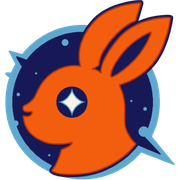
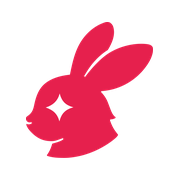
サイトを新ロゴとブランドカラー（#E6204D / #040000）に切り替え
名刺と同じピンクのうさぎロゴと配色にそろえる。

- ヘッダー：白地＋横長ロゴ。トップはキービジュアルに重ね、上から白のシェード
- 紺→黒、オレンジ→ピンク。水色は廃止。白地の小さい文字リンクは #C41A40
- favicon・apple-touch-icon・OG画像を新ロゴで作り直し、旧ロゴ画像を削除
- assets/img/google/ に Google Workspace 用画像（プロフィール・管理コンソールロゴ・Gmail署名）を追加

diff --git a/assets/css/style.css b/assets/css/style.css
@@ -1,15 +1,16 @@
 /* Radiant Bunny Studio — brand tokens taken from the logo */
 :root {
-  --night: #18195a;      /* logo navy */
-  --night-deep: #10114a;
-  --bunny: #f15e11;      /* logo orange */
-  --bunny-dark: #c8480a;
-  --sky: #5ea9d3;        /* logo ring blue */
-  --moon: #f8f2e4;       /* logo cream */
+  --night: #040000;      /* logo black */
+  --night-deep: #040000;
+  --bunny: #e6204d;      /* logo pink */
+  --bunny-dark: #c41a40; /* pink for small text on white (AA contrast) */
+  --mist: #f6f2f2;       /* soft panel on white */
+  --on-dark: #ffffff;    /* text on black */
+  --on-dark-soft: #cfc9c9;
   --paper: #ffffff;
-  --ink: #18195a;
-  --ink-soft: #4a4b7c;
-  --line: #dcdcea;
+  --ink: #040000;
+  --ink-soft: #5a5353;
+  --line: #e8e3e3;
 
   --font-latin: "Montserrat", system-ui, sans-serif;
   --font-jp: "Noto Sans JP", "Hiragino Sans", "Hiragino Kaku Gothic ProN", "Yu Gothic", "Meiryo", sans-serif;
@@ -37,48 +38,48 @@ img { max-width: 100%; height: auto; display: block; }
 a { color: var(--bunny-dark); text-underline-offset: 3px; }
 a:hover { color: var(--bunny); }
 
-:focus-visible { outline: 3px solid var(--sky); outline-offset: 3px; border-radius: 4px; }
+:focus-visible { outline: 3px solid var(--bunny); outline-offset: 3px; border-radius: 4px; }
 
 .wrap { width: 100%; max-width: var(--wrap); margin: 0 auto; padding: 0 var(--gutter); }
 
 .skip {
   position: absolute; left: -9999px; top: 8px;
-  background: var(--moon); color: var(--night); padding: 8px 14px; z-index: 10;
+  background: var(--paper); color: var(--ink); padding: 8px 14px; z-index: 10;
 }
 .skip:focus { left: 8px; }
 
 /* ---------- Header ---------- */
-.site-header { background: var(--night); color: var(--moon); }
+/* White bar like the business card, so the full-colour logo sits on white */
+.site-header { background: var(--paper); color: var(--ink); border-bottom: 1px solid var(--line); }
 .site-header .wrap {
   display: flex; align-items: center; justify-content: space-between;
   gap: 24px; min-height: 72px;
 }
-.brand {
-  display: flex; align-items: center; gap: 12px;
-  text-decoration: none; color: var(--moon);
-  font-family: var(--font-latin); line-height: 1.05;
-}
+/* Top page: the header sits on the key art, with a white shade fading down from the top */
 .site-header.is-overlay {
   position: absolute; top: 0; left: 0; right: 0; z-index: 5;
-  background: linear-gradient(to bottom, rgba(16, 17, 74, .55), transparent);
+  background: none; border-bottom: 0; isolation: isolate;
 }
-.brand img { width: 42px; height: 42px; }
-.brand-name { display: flex; flex-direction: column; }
-.brand-name b { color: var(--bunny); font-weight: 800; font-size: 17px; letter-spacing: -0.01em; }
-.brand-name span { color: var(--moon); font-weight: 400; font-size: 15px; }
-.brand:hover { color: var(--moon); }
+.site-header.is-overlay::before {
+  content: ""; position: absolute; inset: 0 0 -72px 0; z-index: -1; pointer-events: none;
+  background: linear-gradient(to bottom,
+    rgba(255, 255, 255, .78) 0%, rgba(255, 255, 255, .6) 40%,
+    rgba(255, 255, 255, .25) 70%, rgba(255, 255, 255, 0) 100%);
+}
+.brand { display: flex; align-items: center; text-decoration: none; }
+.brand img { width: auto; height: 36px; }
 
 .site-nav ul { list-style: none; margin: 0; padding: 0; display: flex; align-items: center; gap: clamp(14px, 3vw, 32px); }
 .site-nav .nav-x { display: flex; align-items: center; padding: 6px 0; }
 .site-nav .nav-x:hover { color: var(--bunny); border-bottom-color: transparent; }
 .site-nav a {
-  color: var(--moon); text-decoration: none; font-size: 14px; font-weight: 500; white-space: nowrap;
+  color: var(--ink); text-decoration: none; font-size: 14px; font-weight: 500; white-space: nowrap;
   padding: 6px 0; border-bottom: 2px solid transparent;
 }
-.site-nav a:hover, .site-nav a[aria-current="page"] { color: var(--moon); border-bottom-color: var(--bunny); }
+.site-nav a:hover, .site-nav a[aria-current="page"] { color: var(--ink); border-bottom-color: var(--bunny); }
 
 /* ---------- Hero ---------- */
-.hero { background: var(--night); color: var(--moon); }
+.hero { background: var(--night); color: var(--on-dark); }
 
 /* Key art fills the width. The eyes sit at the image centre, so the copy
    centred on top of it always lands on the eyes (as on the Vstar wiki). */
@@ -99,13 +100,13 @@ a:hover { color: var(--bunny); }
   display: flex; flex-direction: column; align-items: center;
   text-align: center;
 }
-/* Each line is a solid navy bar laid across the eyes */
+/* Each line is a solid pink bar laid across the eyes */
 .hero-copy .bar {
   display: block; width: fit-content; margin: 0 auto;
   background: var(--bunny); color: var(--night); padding: 2px clamp(10px, 0.45em, 22px);
 }
 .hero-copy .bar > span { display: inline-block; }
-.hero-copy h1 .bar { color: var(--moon); }
+.hero-copy h1 .bar { color: var(--on-dark); }
 /* Overlap by 1px so no hairline of the art shows between bars on fractional pixel edges */
 .hero-copy h1 .bar + .bar, .hero-copy .hero-en { margin-top: -1px; }
 .hero-copy h1 {
@@ -113,7 +114,7 @@ a:hover { color: var(--bunny); }
   font-family: "Noto Sans JP", "Hiragino Sans", "Yu Gothic", sans-serif;
   /* no cap: grows with the art so the eyes stay covered; a little smaller on very narrow phones */
   font-weight: 800; font-size: max(min(24px, 6.4vw), 3.4vw);
-  line-height: 1.28; letter-spacing: 0.01em; color: var(--moon);
+  line-height: 1.28; letter-spacing: 0.01em; color: var(--on-dark);
 }
 /* Stagger the two lines off the centre axis: first to the left, second to the right */
 .hero-copy h1 .bar:nth-child(1) { transform: translateX(-0.9em); }
@@ -125,7 +126,7 @@ a:hover { color: var(--bunny); }
 
 .hero-lead {
   margin: 0; padding: 8px 0 clamp(48px, 7vw, 88px);
-  max-width: 40em; color: var(--sky); font-size: 15px;
+  max-width: 40em; color: var(--on-dark-soft); font-size: 15px;
 }
 
 @media (prefers-reduced-motion: no-preference) {
@@ -156,12 +157,12 @@ a:hover { color: var(--bunny); }
 }
 .statement + p { max-width: 38em; color: var(--ink-soft); margin-top: 24px; }
 
-/* What we make: three columns divided by thin sky lines, no cards */
+/* What we make: three columns divided by thin pink lines, no cards */
 .domains {
   list-style: none; margin: 0; padding: 0;
   display: grid; grid-template-columns: repeat(3, 1fr);
 }
-.domains li { padding: 8px 28px 8px 28px; border-left: 2px solid var(--sky); }
+.domains li { padding: 8px 28px 8px 28px; border-left: 2px solid var(--bunny); }
 .domains li:first-child { padding-left: 24px; }
 .domains h3 { margin: 0 0 4px; font-size: 18px; font-weight: 700; line-height: 1.5; }
 .domains .en { margin: 0 0 12px; font-family: var(--font-latin); font-size: 13px; font-weight: 600; color: var(--bunny-dark); }
@@ -198,13 +199,13 @@ a:hover { color: var(--bunny); }
 .sns-list a:hover, .sns-list a:hover .sns-handle { color: var(--bunny); }
 
 /* Contact band */
-.contact-band { background: var(--night); color: var(--moon); }
+.contact-band { background: var(--night); color: var(--on-dark); }
 .contact-band .wrap {
   display: flex; align-items: center; justify-content: space-between; gap: 32px; flex-wrap: wrap;
   padding-top: clamp(48px, 7vw, 80px); padding-bottom: clamp(48px, 7vw, 80px);
 }
 .contact-band h2 { margin: 0 0 8px; font-size: clamp(22px, 2.4vw, 28px); font-weight: 800; }
-.contact-band p { margin: 0; color: #d9d9ee; max-width: 32em; }
+.contact-band p { margin: 0; color: var(--on-dark-soft); max-width: 32em; }
 
 .button {
   display: inline-block; text-decoration: none;
@@ -216,9 +217,9 @@ a:hover { color: var(--bunny); }
 .button:hover { background: var(--bunny-dark); color: #fff; }
 
 /* ---------- Document pages (privacy / support) ---------- */
-.page-head { background: var(--night); color: var(--moon); padding: clamp(40px, 6vw, 72px) 0; }
+.page-head { background: var(--night); color: var(--on-dark); padding: clamp(40px, 6vw, 72px) 0; }
 .page-head h1 { margin: 0; font-size: clamp(26px, 3.4vw, 40px); font-weight: 800; line-height: 1.35; }
-.page-head p { margin: 8px 0 0; color: var(--sky); font-family: var(--font-latin); font-weight: 600; }
+.page-head p { margin: 8px 0 0; color: var(--bunny); font-family: var(--font-latin); font-weight: 600; }
 
 .doc { padding: clamp(48px, 7vw, 88px) 0; }
 .doc .wrap > * { max-width: 44em; }
@@ -233,7 +234,7 @@ a:hover { color: var(--bunny); }
 .doc .meta { margin-top: 48px; color: var(--ink-soft); font-size: 14px; }
 .doc .contact-box {
   margin: 20px 0; padding: 20px 24px;
-  background: var(--moon); border-radius: 12px;
+  background: var(--mist); border-radius: 12px;
 }
 .doc .contact-box p { margin: 0; }
 
@@ -251,14 +252,14 @@ a:hover { color: var(--bunny); }
 .job-howto { padding-top: 64px; }
 
 /* ---------- Footer ---------- */
-.site-footer { background: var(--night-deep); color: #b9b9d8; font-size: 13px; }
+.site-footer { background: var(--night-deep); color: #a8a2a2; font-size: 13px; border-top: 1px solid #2a2424; }
 .site-footer .wrap {
   display: flex; justify-content: space-between; align-items: center; gap: 16px; flex-wrap: wrap;
   padding-top: 28px; padding-bottom: 28px;
 }
 .site-footer ul { list-style: none; margin: 0; padding: 0; display: flex; gap: 24px; flex-wrap: wrap; }
-.site-footer a { color: #d9d9ee; text-decoration: none; }
-.site-footer a:hover { color: var(--moon); text-decoration: underline; }
+.site-footer a { color: var(--on-dark-soft); text-decoration: none; }
+.site-footer a:hover { color: var(--on-dark); text-decoration: underline; }
 .site-footer small { font-family: var(--font-latin); font-size: 12px; }
 
 /* ---------- Responsive ---------- */
@@ -272,7 +273,7 @@ a:hover { color: var(--bunny); }
 }
 @media (max-width: 560px) {
   .site-header .wrap { flex-direction: column; align-items: flex-start; gap: 8px; padding-top: 14px; padding-bottom: 10px; }
-  .brand-name b { font-size: 15px; }
+  .brand img { height: 32px; }
 }
 @media (max-width: 360px) {
   .site-nav ul { gap: 12px; }

diff --git a/index.html b/index.html
@@ -6,7 +6,7 @@
 <link rel="icon" href="/favicon.ico" sizes="32x32">
 <link rel="icon" href="/assets/img/favicon-48.png" type="image/png">
 <link rel="apple-touch-icon" href="/assets/img/apple-touch-icon.png">
-<meta name="theme-color" content="#18195a">
+<meta name="theme-color" content="#ffffff">
 <link rel="preconnect" href="https://fonts.googleapis.com">
 <link rel="preconnect" href="https://fonts.gstatic.com" crossorigin>
 <link href="https://fonts.googleapis.com/css2?family=Montserrat:wght@400;500;600;700;800&family=Noto+Sans+JP:wght@400;500;700;800&display=swap" rel="stylesheet">
@@ -17,7 +17,7 @@
 <meta property="og:title" content="Radiant Bunny Studio">
 <meta property="og:description" content="東京・渋谷を拠点に、オリジナルIP、AIキャラクター、ゲームを開発するスタジオ。">
 <meta property="og:url" content="https://radiantbunnystudio.com/">
-<meta property="og:image" content="https://radiantbunnystudio.com/assets/img/logo-full.png">
+<meta property="og:image" content="https://radiantbunnystudio.com/assets/img/og-image.png">
 <link rel="canonical" href="https://radiantbunnystudio.com/">
 <script type="application/ld+json">
 {
@@ -26,7 +26,7 @@
   "name": "RADIANT BUNNY STUDIO K.K.",
   "alternateName": "Radiant Bunny Studio株式会社",
   "url": "https://radiantbunnystudio.com/",
-  "logo": "https://radiantbunnystudio.com/assets/img/logo-full.png",
+  "logo": "https://radiantbunnystudio.com/assets/img/logo-stack.png",
   "foundingDate": "2025-10",
   "address": {
     "@type": "PostalAddress",
@@ -49,8 +49,7 @@
 <header class="site-header is-overlay">
   <div class="wrap">
     <a class="brand" href="/" aria-label="Radiant Bunny Studio ホーム">
-      <img src="/assets/img/mark-512.png" alt="" width="42" height="42">
-      <span class="brand-name"><b>Radiant Bunny</b><span>Studio</span></span>
+      <img src="/assets/img/logo-horizontal.png" alt="" width="1266" height="363">
     </a>
     <nav class="site-nav" aria-label="メインメニュー">
       <ul>
@@ -79,7 +78,7 @@
 
   <section class="section" id="news" aria-labelledby="news-title">
     <div class="wrap">
-      <h2 class="section-title" id="news-title"><svg fill="#f15e11"><use href="#sparkle"/></svg>ニュース</h2>
+      <h2 class="section-title" id="news-title"><svg fill="#e6204d"><use href="#sparkle"/></svg>ニュース</h2>
       <ul class="news-list">
         <li><time datetime="2026-09-01">2026.09.01</time><p>本店を東京都渋谷区渋谷へ移転しました。</p></li>
         <li><time datetime="2026-04-21">2026.04.21</time><p>公式Xアカウント（<a href="https://x.com/ohkunlog" target="_blank" rel="noopener">@ohkunlog</a>）を開設しました。</p></li>
@@ -91,7 +90,7 @@
 
   <section class="section" id="studio" aria-labelledby="studio-title">
     <div class="wrap">
-      <h2 class="section-title" id="studio-title"><svg fill="#f15e11"><use href="#sparkle"/></svg>スタジオについて</h2>
+      <h2 class="section-title" id="studio-title"><svg fill="#e6204d"><use href="#sparkle"/></svg>スタジオについて</h2>
       <p class="statement">世界水準のハイエンドコンテンツと生成AIを組み合わせ、ユーザーとキャラクターのあいだに長く続く関係をつくっています。</p>
       <p>3DCG、ゲーム、AI、物語。異なる領域のつくり手が集まり、キャラクター、物語、技術をひとつのチームで設計しています。見過ごされてきた価値に光を当てること。それが私たちのものづくりの出発点です。</p>
     </div>
@@ -99,7 +98,7 @@
 
   <section class="section" id="work" aria-labelledby="work-title">
     <div class="wrap">
-      <h2 class="section-title" id="work-title"><svg fill="#f15e11"><use href="#sparkle"/></svg>事業内容</h2>
+      <h2 class="section-title" id="work-title"><svg fill="#e6204d"><use href="#sparkle"/></svg>事業内容</h2>
       <ul class="domains">
         <li>
           <h3>オリジナルIP・キャラクター</h3>
@@ -122,7 +121,7 @@
 
   <section class="section" id="company" aria-labelledby="company-title">
     <div class="wrap">
-      <h2 class="section-title" id="company-title"><svg fill="#f15e11"><use href="#sparkle"/></svg>会社概要</h2>
+      <h2 class="section-title" id="company-title"><svg fill="#e6204d"><use href="#sparkle"/></svg>会社概要</h2>
       <dl class="profile">
         <dt>社名</dt>
         <dd>Radiant Bunny Studio株式会社<small>RADIANT BUNNY STUDIO K.K.</small></dd>
@@ -142,7 +141,7 @@
 
   <section class="section sns" id="sns" aria-labelledby="sns-title">
     <div class="wrap">
-      <h2 class="section-title" id="sns-title"><svg fill="#f15e11"><use href="#sparkle"/></svg>公式SNS</h2>
+      <h2 class="section-title" id="sns-title"><svg fill="#e6204d"><use href="#sparkle"/></svg>公式SNS</h2>
       <ul class="sns-list">
         <li><a href="https://x.com/ohkunlog" target="_blank" rel="noopener" aria-label="X（@ohkunlog）"><svg viewBox="0 0 24 24" width="20" height="20" aria-hidden="true"><path fill="currentColor" d="M18.244 2.25h3.308l-7.227 8.26 8.502 11.24H16.17l-5.214-6.817L4.99 21.75H1.68l7.73-8.835L1.254 2.25H8.08l4.713 6.231zm-1.161 17.52h1.833L7.084 4.126H5.117z"/></svg><span class="sns-handle">@ohkunlog</span></a></li>
       </ul>

diff --git a/404.html b/404.html
@@ -6,7 +6,7 @@
 <link rel="icon" href="/favicon.ico" sizes="32x32">
 <link rel="icon" href="/assets/img/favicon-48.png" type="image/png">
 <link rel="apple-touch-icon" href="/assets/img/apple-touch-icon.png">
-<meta name="theme-color" content="#18195a">
+<meta name="theme-color" content="#ffffff">
 <link rel="preconnect" href="https://fonts.googleapis.com">
 <link rel="preconnect" href="https://fonts.gstatic.com" crossorigin>
 <link href="https://fonts.googleapis.com/css2?family=Montserrat:wght@400;500;600;700;800&family=Noto+Sans+JP:wght@400;500;700;800&display=swap" rel="stylesheet">
@@ -19,8 +19,7 @@
 <header class="site-header">
   <div class="wrap">
     <a class="brand" href="/" aria-label="Radiant Bunny Studio ホーム">
-      <img src="/assets/img/mark-512.png" alt="" width="42" height="42">
-      <span class="brand-name"><b>Radiant Bunny</b><span>Studio</span></span>
+      <img src="/assets/img/logo-horizontal.png" alt="" width="1266" height="363">
     </a>
     <nav class="site-nav" aria-label="メインメニュー">
       <ul>

diff --git a/career.html b/career.html
@@ -6,7 +6,7 @@
 <link rel="icon" href="/favicon.ico" sizes="32x32">
 <link rel="icon" href="/assets/img/favicon-48.png" type="image/png">
 <link rel="apple-touch-icon" href="/assets/img/apple-touch-icon.png">
-<meta name="theme-color" content="#18195a">
+<meta name="theme-color" content="#ffffff">
 <link rel="preconnect" href="https://fonts.googleapis.com">
 <link rel="preconnect" href="https://fonts.gstatic.com" crossorigin>
 <link href="https://fonts.googleapis.com/css2?family=Montserrat:wght@400;500;600;700;800&family=Noto+Sans+JP:wght@400;500;700;800&display=swap" rel="stylesheet">
@@ -20,8 +20,7 @@
 <header class="site-header">
   <div class="wrap">
     <a class="brand" href="/" aria-label="Radiant Bunny Studio ホーム">
-      <img src="/assets/img/mark-512.png" alt="" width="42" height="42">
-      <span class="brand-name"><b>Radiant Bunny</b><span>Studio</span></span>
+      <img src="/assets/img/logo-horizontal.png" alt="" width="1266" height="363">
     </a>
     <nav class="site-nav" aria-label="メインメニュー">
       <ul>

diff --git a/news.html b/news.html
@@ -6,7 +6,7 @@
 <link rel="icon" href="/favicon.ico" sizes="32x32">
 <link rel="icon" href="/assets/img/favicon-48.png" type="image/png">
 <link rel="apple-touch-icon" href="/assets/img/apple-touch-icon.png">
-<meta name="theme-color" content="#18195a">
+<meta name="theme-color" content="#ffffff">
 <link rel="preconnect" href="https://fonts.googleapis.com">
 <link rel="preconnect" href="https://fonts.gstatic.com" crossorigin>
 <link href="https://fonts.googleapis.com/css2?family=Montserrat:wght@400;500;600;700;800&family=Noto+Sans+JP:wght@400;500;700;800&display=swap" rel="stylesheet">
@@ -20,8 +20,7 @@
 <header class="site-header">
   <div class="wrap">
     <a class="brand" href="/" aria-label="Radiant Bunny Studio ホーム">
-      <img src="/assets/img/mark-512.png" alt="" width="42" height="42">
-      <span class="brand-name"><b>Radiant Bunny</b><span>Studio</span></span>
+      <img src="/assets/img/logo-horizontal.png" alt="" width="1266" height="363">
     </a>
     <nav class="site-nav" aria-label="メインメニュー">
       <ul>

diff --git a/privacy.html b/privacy.html
@@ -6,7 +6,7 @@
 <link rel="icon" href="/favicon.ico" sizes="32x32">
 <link rel="icon" href="/assets/img/favicon-48.png" type="image/png">
 <link rel="apple-touch-icon" href="/assets/img/apple-touch-icon.png">
-<meta name="theme-color" content="#18195a">
+<meta name="theme-color" content="#ffffff">
 <link rel="preconnect" href="https://fonts.googleapis.com">
 <link rel="preconnect" href="https://fonts.gstatic.com" crossorigin>
 <link href="https://fonts.googleapis.com/css2?family=Montserrat:wght@400;500;600;700;800&family=Noto+Sans+JP:wght@400;500;700;800&display=swap" rel="stylesheet">
@@ -20,8 +20,7 @@
 <header class="site-header">
   <div class="wrap">
     <a class="brand" href="/" aria-label="Radiant Bunny Studio ホーム">
-      <img src="/assets/img/mark-512.png" alt="" width="42" height="42">
-      <span class="brand-name"><b>Radiant Bunny</b><span>Studio</span></span>
+      <img src="/assets/img/logo-horizontal.png" alt="" width="1266" height="363">
     </a>
     <nav class="site-nav" aria-label="メインメニュー">
       <ul>

diff --git a/support.html b/support.html
@@ -6,7 +6,7 @@
 <link rel="icon" href="/favicon.ico" sizes="32x32">
 <link rel="icon" href="/assets/img/favicon-48.png" type="image/png">
 <link rel="apple-touch-icon" href="/assets/img/apple-touch-icon.png">
-<meta name="theme-color" content="#18195a">
+<meta name="theme-color" content="#ffffff">
 <link rel="preconnect" href="https://fonts.googleapis.com">
 <link rel="preconnect" href="https://fonts.gstatic.com" crossorigin>
 <link href="https://fonts.googleapis.com/css2?family=Montserrat:wght@400;500;600;700;800&family=Noto+Sans+JP:wght@400;500;700;800&display=swap" rel="stylesheet">
@@ -20,8 +20,7 @@
 <header class="site-header">
   <div class="wrap">
     <a class="brand" href="/" aria-label="Radiant Bunny Studio ホーム">
-      <img src="/assets/img/mark-512.png" alt="" width="42" height="42">
-      <span class="brand-name"><b>Radiant Bunny</b><span>Studio</span></span>
+      <img src="/assets/img/logo-horizontal.png" alt="" width="1266" height="363">
     </a>
     <nav class="site-nav" aria-label="メインメニュー">
       <ul>

diff --git a/README.md b/README.md
@@ -10,6 +10,9 @@ Radiant Bunny Studio株式会社のコーポレートサイト。GitHub Pagesで
 - `support.html` サポート・お問い合わせ（App Storeのサポート URL）
 - `404.html` / `CNAME` / `.nojekyll`
 - `assets/css/style.css` 共通スタイル、`assets/img/` ロゴ類
+- `assets/img/google/` Google Workspace 用（プロフィール画像・管理コンソールのロゴ・Gmail署名ロゴ）
+
+ブランドカラーはピンク `#E6204D` と黒 `#040000`（名刺と同じ）。白地の小さい文字リンクだけ、コントラスト確保のため濃いピンク `#C41A40` を使う。
 
 ヘッダー・フッターは各HTMLに直接書いてある。メニューを変えるときは6ファイルすべて直す。サポートはヘッダーのメニューには出さず、フッターからだけリンクする（App Store のサポート URL として残す）。
 
